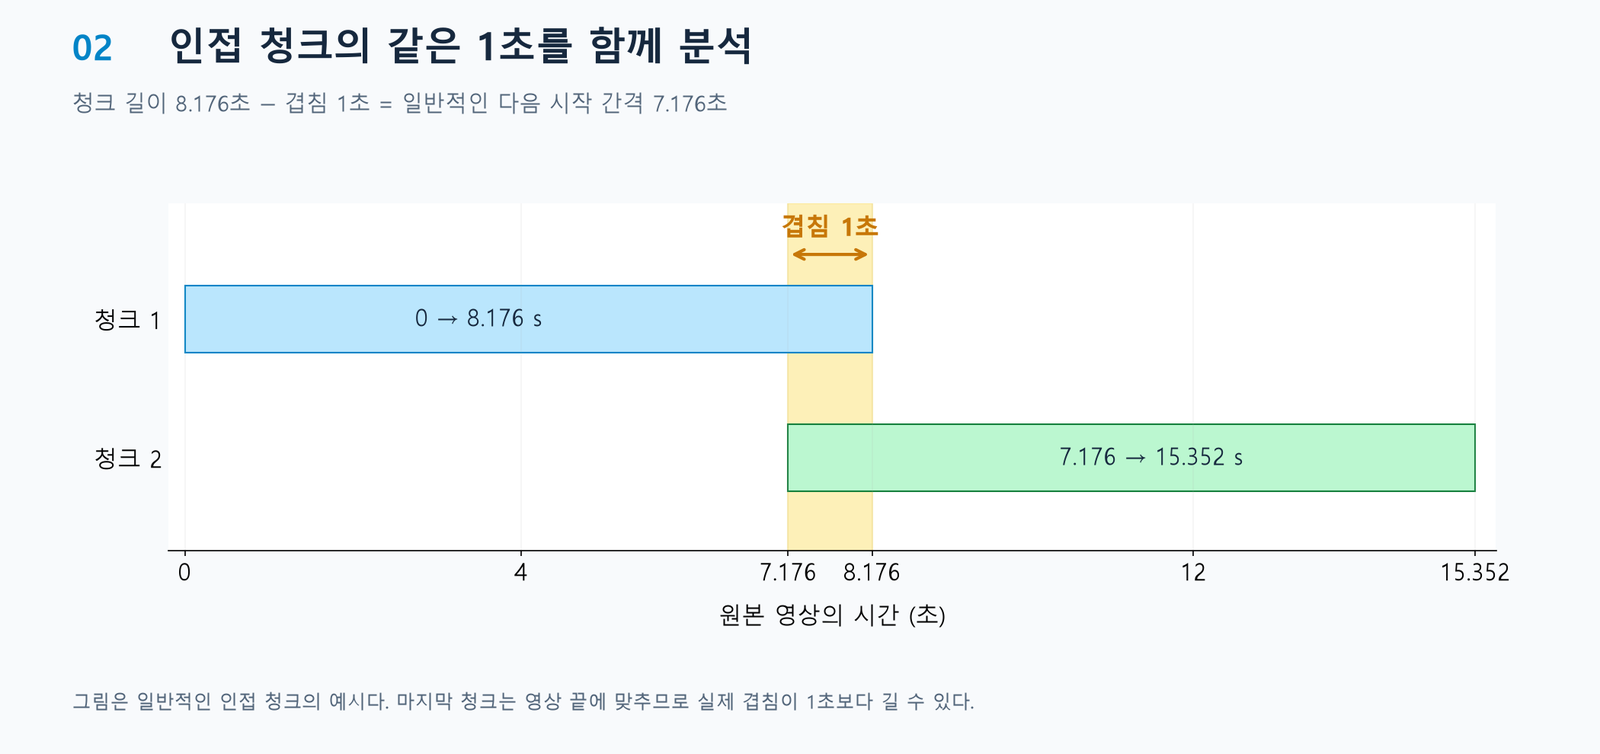
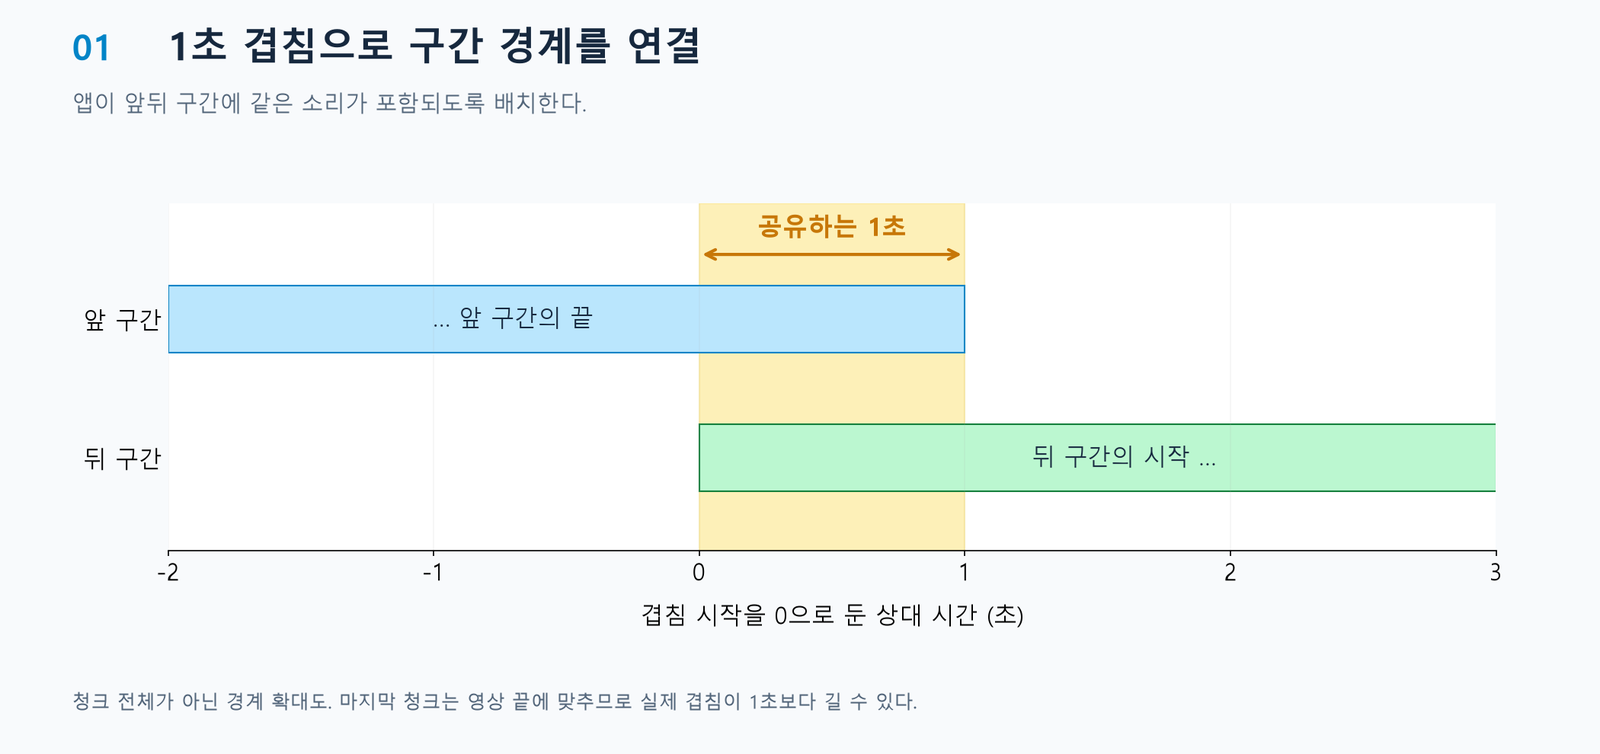
Focus illustrated README on app processing and stereo output

diff --git a/tests/test_distribution_documents.py b/tests/test_distribution_documents.py
@@ -202,7 +202,7 @@ class DistributionDocumentTests(unittest.TestCase):
         self.assertIn("build and distribution scripts, documentation, and full license texts", readme)
         self.assertNotIn("## 이동용 폴더", readme)
         explanation = re.split(r"(?m)^### ", readme.split("### 음악·비음악 분리 원리", 1)[1], maxsplit=1)[0]
-        for term in ("CAVP", "AV-CASS", "16kHz", "마스크"):
+        for term in ("1초", "OLA", "고역", "스테레오", "마스크"):
             self.assertIn(term, explanation)
         for asset in re.findall(r"!\[[^\]]*\]\((docs/assets/[^)]+)\)", readme):
             self.assertTrue((ROOT / asset).is_file(), asset)

diff --git a/README.md b/README.md
@@ -68,90 +68,41 @@ Video Music Separator는 영상에 섞인 배경음악을 줄이거나 제거하
 
 ### 음악·비음악 분리 원리
 
-AV-CASS와 CAVP가 영상·소리를 분석해 음악 마스크를 만들고, 앱은 이를 보관한 원본 스테레오에 적용한다. 아래 이미지는 현재 설정이 추론, 구간 연결, 고음 처리와 스테레오 출력에 어떻게 쓰이는지 보여준다.
+이 앱은 모델의 모노 분석에서 얻은 분리 추정치를 받아 구간별로 연결하고, 이를 음악 마스크로 변환해 보관한 원본 스테레오에 적용한다. 아래는 앱에 적용한 연결·고역·출력 처리 방식이다.
 
-#### 1. 청크당 250단계 — 한 구간의 분리 추정치를 갱신
+#### 1. 1초 겹침 — 경계 구간을 공유
 
-청크는 한 번에 분석하는 약 8.18초 길이의 구간이다. 각 청크에서 초기 잡음 상태를 출발점으로 삼아, 원본 소리와 장면 특징을 조건으로 대사·효과음·음악 추정치를 갱신한다. `250`은 이 추론 과정의 설정값이며, 영상을 250개로 나누거나 250프레임을 읽는다는 의미가 아니다.
+앱은 인접 처리 구간(청크)에 같은 1초가 포함되도록 배치한다. 겹친 부분에는 앞뒤 두 구간의 분리 결과가 생기며, 이를 OLA로 연결한다.
 
-![약 8.18초 청크에서 250개 추론 시점 사이의 249회 갱신으로 분리 추정치를 만드는 개념도](docs/assets/inference-steps.ko.png)
+![앞 구간의 끝과 뒤 구간의 시작이 같은 1초를 공유하는 경계 확대도](docs/assets/chunk-overlap.ko.png)
 
-현재 구현은 250개 시점 사이에서 249회 Euler 갱신을 수행한다. 그림의 칸은 추론 시점을 나타내며 실제 중간 출력이나 품질 측정값이 아니다. 단계를 늘리면 연산량은 증가하지만 음악 제거와 효과음 보존이 반드시 좋아지는 것은 아니다.
+그림은 청크 전체가 아닌 일반적인 경계 주변을 확대해 보여준다. 마지막 청크는 영상 끝에 맞춰 배치하므로 실제 겹침이 1초보다 길어질 수 있다.
 
-#### 2. 1초 겹침 — 같은 소리를 인접 청크 양쪽에서 분석
+#### 2. cosine-squared OLA — 앞뒤 결과를 부드럽게 연결
 
-일반적인 청크 길이는 8.176초이고 다음 청크는 7.176초 뒤에 시작한다. 따라서 경계의 1초는 두 청크에 함께 들어간다. 겹친 구간에는 두 분리 추정치가 생기며, 다음의 OLA 처리로 하나로 연결한다.
+OLA는 겹친 결과에 서로 다른 비중을 주어 더하는 방식이다. 겹침의 시작에서는 앞 청크를 많이 반영하고, 끝으로 갈수록 뒤 청크를 많이 반영한다. 일반적인 두 청크의 겹침에서는 앞쪽 `cos²`와 뒤쪽 `sin²` 곡선이 중간에서 각각 50%가 된다.
 
-![청크 1의 0~8.176초와 청크 2의 7.176~15.352초가 1초 겹치는 시간축](docs/assets/chunk-overlap.ko.png)
+![1초 겹침에서 앞 청크의 비중은 100%에서 0%로, 뒤 청크의 비중은 0%에서 100%로 변하는 OLA 곡선](docs/assets/cosine-ola.ko.png)
 
-그림은 일반적인 인접 청크의 예시다. 마지막 청크는 영상 끝에 맞춰 배치하므로 겹침이 1초보다 길어질 수 있다. 약 8.18초보다 짧은 입력은 분석 길이에 맞춰 무음을 채우고, 결과를 원래 길이로 되돌린다.
+청크 사이의 급격한 변화를 줄이기 위한 연결 처리다. 곡선의 합이 100%라는 것은 반영 비중의 합을 뜻하며, 결과 소리의 크기가 항상 일정하거나 음악 오분류가 해결된다는 뜻은 아니다. 연결된 분리 결과로 최종 음악 마스크를 만든다.
 
-#### 3. cosine-squared OLA — 앞뒤 추정치를 부드럽게 연결
+#### 3. 고역 확장 0% — 높은 소리에 제거를 추가 확장하지 않음
 
-OLA는 겹친 추정치에 서로 다른 비중을 주어 더하는 방식이다. 겹침의 시작에서는 앞 청크를 많이 반영하고, 끝으로 갈수록 뒤 청크를 많이 반영한다. 일반적인 두 청크의 겹침에서는 앞쪽 `cos²`와 뒤쪽 `sin²` 곡선이 중간에서 각각 50%가 된다.
+앱은 음악 마스크의 대역 가중치를 7~8kHz에서 점차 낮추고, 8kHz 위에서는 0으로 둔다. 이 영역의 원본 소리는 음악 아님 트랙에 남는다.
 
-![1초 겹침에서 앞 청크의 cos 제곱 비중은 100%에서 0%로, 뒤 청크의 sin 제곱 비중은 0%에서 100%로 변하는 곡선](docs/assets/cosine-ola.ko.png)
+![음악 마스크의 대역 가중치를 7~8kHz에서 낮추고, 8kHz 초과 원본 성분을 음악 아님에 남기는 그래프](docs/assets/high-band.ko.png)
 
-청크 사이의 급격한 변화를 줄이기 위한 연결 처리다. 곡선의 합이 100%라는 것은 반영 비중의 합을 뜻하며, 결과 소리의 크기가 항상 일정하거나 음악 오분류가 해결된다는 뜻은 아니다. 연결된 대사·효과음·음악 추정치로 최종 음악 마스크를 만든다.
+여기서 0%는 고음의 음량을 0으로 만든다는 뜻이 아니라, 고음으로 음악 제거를 추가 확장하지 않는다는 뜻이다. 그래프의 세로축도 실제 제거율이 아니라 음악 마스크에 곱하는 대역 가중치다. 높은 효과음과 함께 심벌 같은 음악 성분도 일부 남을 수 있다.
 
-#### 4. 고역 확장 0% — 모델이 판단하지 못하는 고음을 보존
+#### 4. 스테레오 출력 — 보관한 원본의 좌우 채널을 사용
 
-AI 분석용 소리는 16kHz 모노이므로 모델이 직접 판단할 수 있는 주파수는 8kHz까지다. 앱은 음악 마스크의 대역 가중치를 7~8kHz에서 점차 낮추고, 8kHz 위에서는 0으로 둔다. 이 영역의 원본 소리는 음악 아님 트랙에 남는다.
+앱은 최종 출력에 사용할 44.1kHz 스테레오 소리를 따로 보관한다. 모델의 모노 분석에서 얻은 분리 추정치로 음악 마스크를 계산하고, 원본 왼쪽(L)과 오른쪽(R)에 동일하게 적용한다. 두 채널의 입력 소리는 서로 다르므로 같은 마스크를 적용해도 좌우 출력이 같은 모노가 되지는 않는다.
 
-![음악 마스크 대역 가중치는 7kHz까지 유지되고 7~8kHz에서 0으로 감소하며, 8kHz 초과 소리는 음악 아님에 보존되는 그래프](docs/assets/high-band.ko.png)
+![하나의 음악 마스크를 보관한 원본 L과 R에 각각 적용해 음악과 음악 아님 스테레오를 만드는 앱의 출력 구조](docs/assets/stereo-output.ko.png)
 
-여기서 0%는 고음의 음량을 0으로 만든다는 뜻이 아니라, 고음으로 음악 제거 판단을 추가 확장하지 않는다는 뜻이다. 그래프의 세로축도 실제 제거율이 아니라 음악 마스크에 곱하는 대역 가중치다. 높은 효과음과 함께 심벌 같은 음악 성분도 일부 남을 수 있다.
+원본의 좌우 차이와 위상 정보를 활용하고, 음악 아님은 각 채널에서 `원본 - 음악`으로 만든다. 두 트랙을 합치면 계산 오차 범위에서 보관한 스테레오로 돌아온다. 다만 음악으로 잘못 분류된 효과음은 함께 줄어들 수 있으므로, 이것이 모든 효과음과 공간감의 완전한 보존을 보장하지는 않는다.
 
-#### 5. 스테레오 출력 — 보관한 원본의 좌우 채널을 사용
-
-AI 분석에 사용하는 16kHz 모노와 별도로, 최종 출력에 사용할 44.1kHz 스테레오 소리를 보관한다. 분리 후에는 하나의 음악 마스크를 원본 왼쪽(L)과 오른쪽(R)에 동일하게 적용한다. 두 채널의 입력 소리는 서로 다르므로 같은 마스크를 적용해도 좌우 출력이 같은 모노가 되지는 않는다.
-
-![모노 분석에서 만든 하나의 음악 마스크를 보관한 원본 L과 R에 각각 적용해 음악과 음악 아님 스테레오를 만드는 구조](docs/assets/stereo-output.ko.png)
-
-모노를 복제하거나 AI가 좌우 소리를 새로 생성하는 방식이 아니다. 원본의 좌우 차이와 위상 정보를 활용하고, 음악 아님은 각 채널에서 `원본 - 음악`으로 만든다. 두 트랙을 합치면 계산 오차 범위에서 보관한 스테레오로 돌아온다. 다만 음악으로 잘못 분류된 효과음은 함께 줄어들 수 있으므로, 이것이 모든 효과음과 공간감의 완전한 보존을 보장하지는 않는다.
-
-<details>
-<summary>전체 분리 구조 보기</summary>
-
-```mermaid
-flowchart TB
-    V["입력 영상"] --> A["장면 특징 · 분석용 소리<br/>CAVP · 16kHz 모노"]
-    V --> O["보관한 원본 소리<br/>44.1kHz 스테레오"]
-    A --> AI["AV-CASS 추정<br/>대사 · 효과음 · 음악"]
-    AI --> M["음악 마스크 생성<br/>시간·주파수별 음악 비율"]
-    M --> S["원본 양쪽 채널에<br/>같은 마스크 적용"]
-    O --> S
-    S --> MUSIC["음악 트랙"]
-    O --> N["원본 − 음악"]
-    MUSIC --> N
-    N --> OTHER["음악 아님 트랙"]
-    classDef analysis fill:#e0f2fe,stroke:#0284c7,color:#0c4a6e
-    classDef source fill:#dcfce7,stroke:#16a34a,color:#14532d
-    classDef output fill:#fef3c7,stroke:#d97706,color:#78350f
-    class A,AI,M analysis
-    class O,S,N source
-    class MUSIC,OTHER output
-```
-
-</details>
-
-<details>
-<summary>분석 방식과 기본값 자세히 보기</summary>
-
-이 앱은 공식 AV-CASS 시청각 체크포인트와 CAVP 체크포인트를 사용한다. AI가 생성한 `speech`·`sfx`·`music` 세 가지 추정 결과를 최종 오디오로 그대로 쓰는 대신, 이를 음악 마스크로 변환해 원본 스테레오에 적용한다. 이 방식은 음악 제거 성능과 원본 음질 보존 사이의 균형을 위한 것이다.
-
-1. 원본 오디오는 최종 출력에 사용할 44.1kHz 스테레오로 보관한다. AI 분석용 오디오는 좌우 채널을 모노로 합친 뒤 16kHz로 변환한다.
-2. 영상은 초당 4프레임으로 추출하고 각 프레임을 224×224로 중앙 크롭한다. 이 전체 장면 프레임을 CAVP scene encoder에 전달하며, 얼굴 검출이나 별도의 facial encoder는 사용하지 않는다.
-3. AV-CASS의 조건부 flow-matching 모델이 약 8.18초 길이의 청크마다 혼합음과 장면 특징을 분석해 `speech`, `sfx`, `music` 추정치를 동시에 생성한다. 각 청크는 기본 250단계로 추론하며, 청크 사이에는 1초의 겹침 구간을 두고 cosine-squared OLA로 자연스럽게 연결한다.
-4. `speech + sfx`를 비음악 추정치로 합친 뒤, 음악과 비음악 에너지의 비율로 부드러운 시간·주파수 음악 마스크를 만든다. AI가 생성한 파형은 최종 오디오로 직접 사용하지 않는다.
-5. 음악 마스크를 원본 44.1kHz 스테레오의 양쪽 채널에 동일하게 적용하고, 비음악은 `원본 - 음악`으로 만든다. 따라서 두 트랙을 합치면 계산 오차 범위에서 원본으로 돌아가며 채널 수·스테레오 공간감·위상·길이도 유지된다.
-6. 16kHz 모델이 직접 판단할 수 있는 대역은 8kHz까지다. 기본 고역 확장값 0%에서는 8kHz를 넘는 원본 성분을 비음악 트랙에 보존한다.
-
-이 방식은 대사·효과음·음악을 각각 독립된 트랙으로 추출하기보다 음악 제거와 원본 충실도를 우선한다. 대사와 효과음 사이의 오분류는 모두 비음악 트랙에 남지만, 비음악을 음악으로 잘못 판단하면 해당 소리가 함께 줄어들 수 있다. 또한 8kHz 초과 대역을 보존하면 원본의 선명함은 유지되지만 심벌처럼 높은 음악 성분이 비음악에 일부 남을 수 있다. AI 분리는 완벽하지 않으므로 저장하기 전에 두 트랙과 음악을 끈 전체 영상을 직접 확인해야 한다.
-
-기반 연구와 모델에 관한 자세한 내용은 [AV-CASS 프로젝트 페이지](https://cass-flowmatching.github.io/), [논문](https://mm.kaist.ac.kr/pubs/pdfs/zhang26a.pdf), [공개 소스 코드](https://github.com/pantheon5100/AVCASS)에서 확인할 수 있다. 이 프로젝트는 AV-CASS 연구진의 공식 앱이 아니며 연구진과 제휴 관계가 없고 보증도 받지 않았다.
-
-</details>
+모델 출처: [AV-CASS 프로젝트](https://cass-flowmatching.github.io/) · [논문](https://mm.kaist.ac.kr/pubs/pdfs/zhang26a.pdf) · [공식 소스](https://github.com/pantheon5100/AVCASS). 이 앱은 연구진의 공식 앱이 아니며, 제휴하거나 보증받지 않았다.
 
 <a id="ko-limits"></a>
 
@@ -160,7 +111,7 @@ flowchart TB
 - 로컬 일반 파일만 입력할 수 있고 FFmpeg 계열 입력 프로토콜은 `file`로 제한된다. 한 번에 처리할 수 있는 영상은 최대 10분이며, 더 긴 영상은 나눠야 한다. 처리 전에 예상 임시 공간과 2GB 안전 여유를 확인한다.
 - 음악/비음악 분리는 세부 소리 이름별 독립 추출보다 안정적이지만 AI 분리이므로 100% 무누출을 보장하지 않는다.
 - 매우 작은 음악, 음악처럼 반복되는 효과음, 노래·신음처럼 음악과 사람 발성의 경계가 애매한 소리는 반대 트랙에 일부 남을 수 있다.
-- AV-CASS는 16kHz 모노로 장면과 소리를 판단하지만, 최종 출력은 그 판정 마스크를 원본 스테레오에 적용한다. 모델이 판단할 수 없는 8kHz 이상은 음악 아님 쪽에 보존한다.
+- 최종 출력은 음악 마스크를 보관한 원본 스테레오에 적용한다. 기본 고역 처리에서는 8kHz 초과 성분을 음악 아님 쪽에 남기므로, 높은 음악 성분도 일부 남을 수 있다.
 - 저장 전에는 반드시 음악 행과 음악 아님 행을 각각 들어보고, 음악 뮤트 전체 재생까지 확인해야 한다.
 
 <a id="ko-installation"></a>
@@ -438,90 +389,41 @@ Inputs are restricted to supported media formats on fixed local disks. UNC paths
 
 ### Music and Non-Music Separation
 
-AV-CASS and CAVP analyze the scene and audio to derive a music mask, which the application applies to the retained stereo source. These figures show how the current settings affect inference, chunk joining, high frequencies, and stereo output.
+The application receives separation estimates from the model’s mono analysis, joins them across chunks, and converts them into a music mask applied to the retained stereo source. The following figures describe the application's joining, high-band, and output processing.
 
-#### 1. The 250-step setting — update the estimate within each chunk
+#### 1. One-second overlap — share audio at the boundary
 
-A chunk is an approximately 8.18-second segment analyzed at one time. Starting from noise, the model updates its speech, effects, and music estimates using source audio and scene features as conditions. `250` configures this inference schedule; it does not mean 250 video segments or 250 frames.
+The application places adjacent processing segments (chunks) so that they share one second. The preceding and following chunks each provide a separation result for the shared segment, which OLA blends together.
 
-![Conceptual diagram of 249 updates between 250 inference time points for one approximately 8.18-second chunk](docs/assets/inference-steps.en.png)
+![Close-up of adjacent chunk boundaries sharing one second](docs/assets/chunk-overlap.en.png)
 
-The current implementation performs 249 Euler updates between 250 schedule points. The cells represent those points, not actual intermediate audio or measured quality. More steps increase computation but do not guarantee better music removal or effects preservation.
+The figure shows a close-up of a regular boundary, not full chunks. The last chunk is aligned to the end of the video, so its overlap can exceed one second.
 
-#### 2. One-second overlap — analyze boundary audio in both chunks
+#### 2. Cosine-squared OLA — blend adjacent results smoothly
 
-A regular chunk lasts 8.176 seconds, and the next starts 7.176 seconds later. Both chunks therefore include the same second at the boundary. Two estimates are available for this shared segment; OLA blends them into one result.
+Overlap-add (OLA) weights and adds overlapping results. The preceding chunk contributes most at the start of the overlap; the next contributes most at the end. For a regular two-chunk overlap, the preceding `cos²` and following `sin²` weights are each 50% at the midpoint.
 
-![Timeline showing chunk 1 at 0 to 8.176 seconds and chunk 2 at 7.176 to 15.352 seconds, with one second shared](docs/assets/chunk-overlap.en.png)
+![OLA weight curves: the preceding chunk fades from 100 to 0 percent while the following chunk rises from 0 to 100 percent](docs/assets/cosine-ola.en.png)
 
-The figure shows regular adjacent chunks. The last chunk is aligned to the end of the video, so its overlap can exceed one second. Inputs shorter than approximately 8.18 seconds are silence-padded for analysis, then trimmed back to their original length.
+This reduces abrupt changes at chunk boundaries. A 100% sum of weights does not imply constant output loudness or correct music classification. The joined separation results are then used to derive the final music mask.
 
-#### 3. Cosine-squared OLA — blend adjacent estimates smoothly
+#### 3. Zero high-band extension — no extra removal in the high band
 
-Overlap-add (OLA) weights and adds overlapping estimates. The preceding chunk contributes most at the start of the overlap; the next contributes most at the end. For a regular two-chunk overlap, the preceding `cos²` and following `sin²` weights are each 50% at the midpoint.
+The application tapers the band weight on the music mask from 7 to 8 kHz and sets it to zero above 8 kHz. Source audio in that higher band stays in Non-Music.
 
-![Weight curves across a one-second overlap: the preceding chunk fades from 100 to 0 percent and the next rises from 0 to 100 percent](docs/assets/cosine-ola.en.png)
+![The music mask band weight tapers from 7 to 8 kHz, leaving source content above 8 kHz in Non-Music](docs/assets/high-band.en.png)
 
-This reduces abrupt changes at chunk boundaries. A 100% sum of weights does not imply constant output loudness or correct music classification. The joined speech, effects, and music estimates are then used to derive the final music mask.
+Here, 0% means no extra extension of music removal into higher frequencies; it does not mute the high frequencies. The vertical axis is a multiplier on the music mask, not the actual removal rate. High-frequency effects are retained, but some musical content such as cymbals may also remain.
 
-#### 4. Zero high-band extension — retain frequencies beyond model analysis
+#### 4. Stereo output — use the retained original left and right channels
 
-AI analysis uses 16 kHz mono audio, limiting direct frequency assessment to 8 kHz. The application tapers the band weight on the music mask from 7 to 8 kHz and sets it to zero above 8 kHz. Source audio in that higher band stays in Non-Music.
+The application retains 44.1 kHz stereo audio separately for final output. It derives a music mask from the model’s mono-analysis estimates and applies that mask identically to the source left (L) and right (R) channels. Their source signals differ, so using the same mask does not turn the output into duplicated mono.
 
-![Music mask band weight stays at one through 7 kHz, tapers to zero at 8 kHz, and leaves higher source frequencies in Non-Music](docs/assets/high-band.en.png)
+![The application applies one music mask separately to retained source L and R to produce stereo Music and Non-Music](docs/assets/stereo-output.en.png)
 
-Here, 0% means no extra extension of the music-removal decision into higher frequencies; it does not mute the high frequencies. The vertical axis is a multiplier on the music mask, not the actual removal rate. High-frequency effects are retained, but some musical content such as cymbals may also remain.
+The application uses source channel differences and phase information, computing Non-Music as `source - music` per channel. Adding the two tracks reconstructs the retained stereo source within numerical precision. Effects misclassified as music may still be reduced; this does not guarantee perfect preservation of every effect or spatial detail.
 
-#### 5. Stereo output — use the retained original left and right channels
-
-The application retains 44.1 kHz stereo audio separately from the 16 kHz mono analysis input. After analysis, one music mask is applied identically to the source left (L) and right (R) channels. Their source signals differ, so using the same mask does not turn the output into duplicated mono.
-
-![One music mask from mono analysis is applied separately to retained source L and R to produce stereo Music and Non-Music](docs/assets/stereo-output.en.png)
-
-The application neither duplicates mono nor asks AI to generate new left and right channels. It uses the source channel differences and phase information, computing Non-Music as `source - music` per channel. Adding the two tracks reconstructs the retained stereo source within numerical precision. Effects misclassified as music may still be reduced; this does not guarantee perfect preservation of every effect or spatial detail.
-
-<details>
-<summary>View the overall separation structure</summary>
-
-```mermaid
-flowchart TB
-    V["Input video"] --> A["Scene features · analysis audio<br/>CAVP · 16 kHz mono"]
-    V --> O["Retained source audio<br/>44.1 kHz stereo"]
-    A --> AI["AV-CASS estimates<br/>Speech · effects · music"]
-    AI --> M["Create music mask<br/>Music ratio across time and frequency"]
-    M --> S["Apply the same mask<br/>to both source channels"]
-    O --> S
-    S --> MUSIC["Music track"]
-    O --> N["Source − Music"]
-    MUSIC --> N
-    N --> OTHER["Non-Music track"]
-    classDef analysis fill:#e0f2fe,stroke:#0284c7,color:#0c4a6e
-    classDef source fill:#dcfce7,stroke:#16a34a,color:#14532d
-    classDef output fill:#fef3c7,stroke:#d97706,color:#78350f
-    class A,AI,M analysis
-    class O,S,N source
-    class MUSIC,OTHER output
-```
-
-</details>
-
-<details>
-<summary>Expand analysis details and defaults</summary>
-
-The application uses the official audio-visual AV-CASS checkpoint and CAVP checkpoint. Instead of using the three AI-generated `speech`, `sfx`, and `music` estimates directly as final audio, it converts them into a music decision mask and applies that mask to the original stereo signal. This balances music removal with fidelity to the source.
-
-1. The source audio is retained as 44.1 kHz stereo for final output. For AI analysis, the left and right channels are mixed to mono and resampled to 16 kHz.
-2. The video is sampled at 4 fps, and each frame is center-cropped to 224×224. These full-scene frames are passed to the CAVP scene encoder; the application does not perform face detection or use a separate facial encoder.
-3. For each approximately 8.18-second chunk, the AV-CASS conditional flow-matching model analyzes the mixture and scene features and generates `speech`, `sfx`, and `music` estimates simultaneously. Each chunk uses 250 inference steps by default. Adjacent chunks overlap by one second and are joined with cosine-squared overlap-add.
-4. The application combines `speech + sfx` into the non-music estimate, then derives a smooth time-frequency music mask from the relative energy of the music and non-music estimates. The AI-generated waveforms are not used directly as the final audio.
-5. The music mask is applied identically to both channels of the retained 44.1 kHz stereo source. Non-Music is constructed as `source - music`, so the two tracks reconstruct the source within numerical precision while preserving channel count, stereo image, phase, and duration.
-6. A 16 kHz model can directly evaluate frequencies only up to 8 kHz. With the default 0% high-band extension, source content above 8 kHz is preserved in the Non-Music track.
-
-This design prioritizes music removal and fidelity to the source over extracting three independent speech, effects, and music tracks. Confusion between speech and effects remains in Non-Music, but a non-music sound misclassified as music may also be reduced. Preserving content above 8 kHz retains source clarity, although some high-frequency music such as cymbals may remain in Non-Music. AI separation is not perfect, so users should review both tracks and the full music-muted playback before saving.
-
-For more information about the underlying research and model, see the [AV-CASS project page](https://cass-flowmatching.github.io/), [paper](https://mm.kaist.ac.kr/pubs/pdfs/zhang26a.pdf), and [public source code](https://github.com/pantheon5100/AVCASS). This project is not an official AV-CASS application and is not affiliated with or endorsed by the AV-CASS researchers.
-
-</details>
+Model sources: [AV-CASS project](https://cass-flowmatching.github.io/) · [paper](https://mm.kaist.ac.kr/pubs/pdfs/zhang26a.pdf) · [official code](https://github.com/pantheon5100/AVCASS). This application is not an official research-team application and is not affiliated with or endorsed by the researchers.
 
 <a id="en-limits"></a>
 
@@ -530,7 +432,7 @@ For more information about the underlying research and model, see the [AV-CASS p
 - Inputs must be local regular files, and FFmpeg-family input protocols are restricted to `file`. A single job is limited to 10 minutes; split longer media first. The application checks estimated scratch use plus a 2 GB safety reserve before extraction.
 - Music/non-music separation is more stable than independent extraction by detailed sound name, but no AI separation can guarantee zero leakage.
 - Very quiet music, rhythmically repeated effects, and sounds near the boundary between music and human vocalization—such as singing or moaning—may partially remain in the opposite track.
-- AV-CASS analyzes the scene and audio at 16 kHz mono, but the final output applies its decision mask to the original stereo signal. Frequencies above 8 kHz that the model cannot evaluate are preserved in the non-music track.
+- Final output applies a music mask to the retained stereo source. Default high-band processing leaves content above 8 kHz in Non-Music, so some high-frequency music may remain.
 - Always listen to both the Music and Non-Music rows and review full playback with music muted before saving.
 
 <a id="en-installation"></a>
